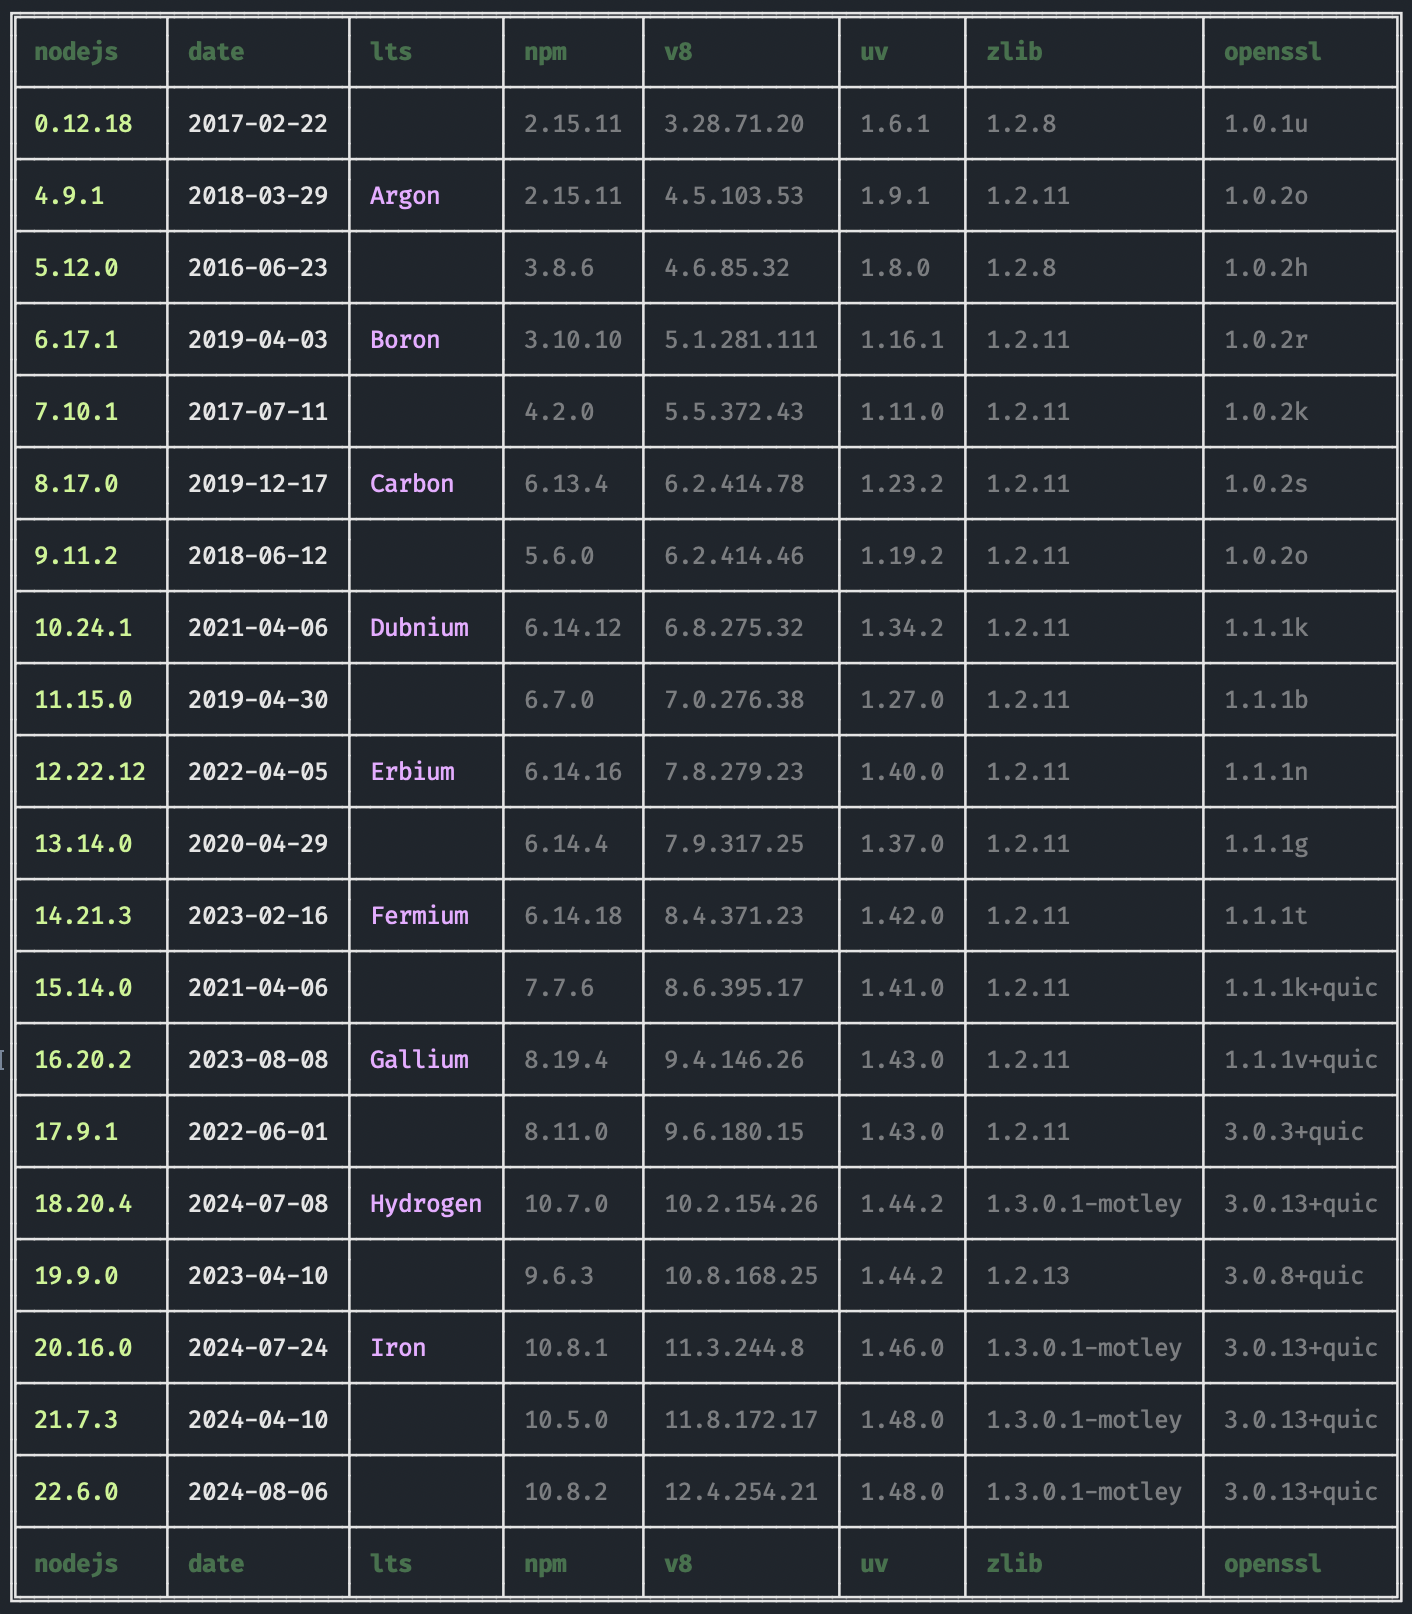
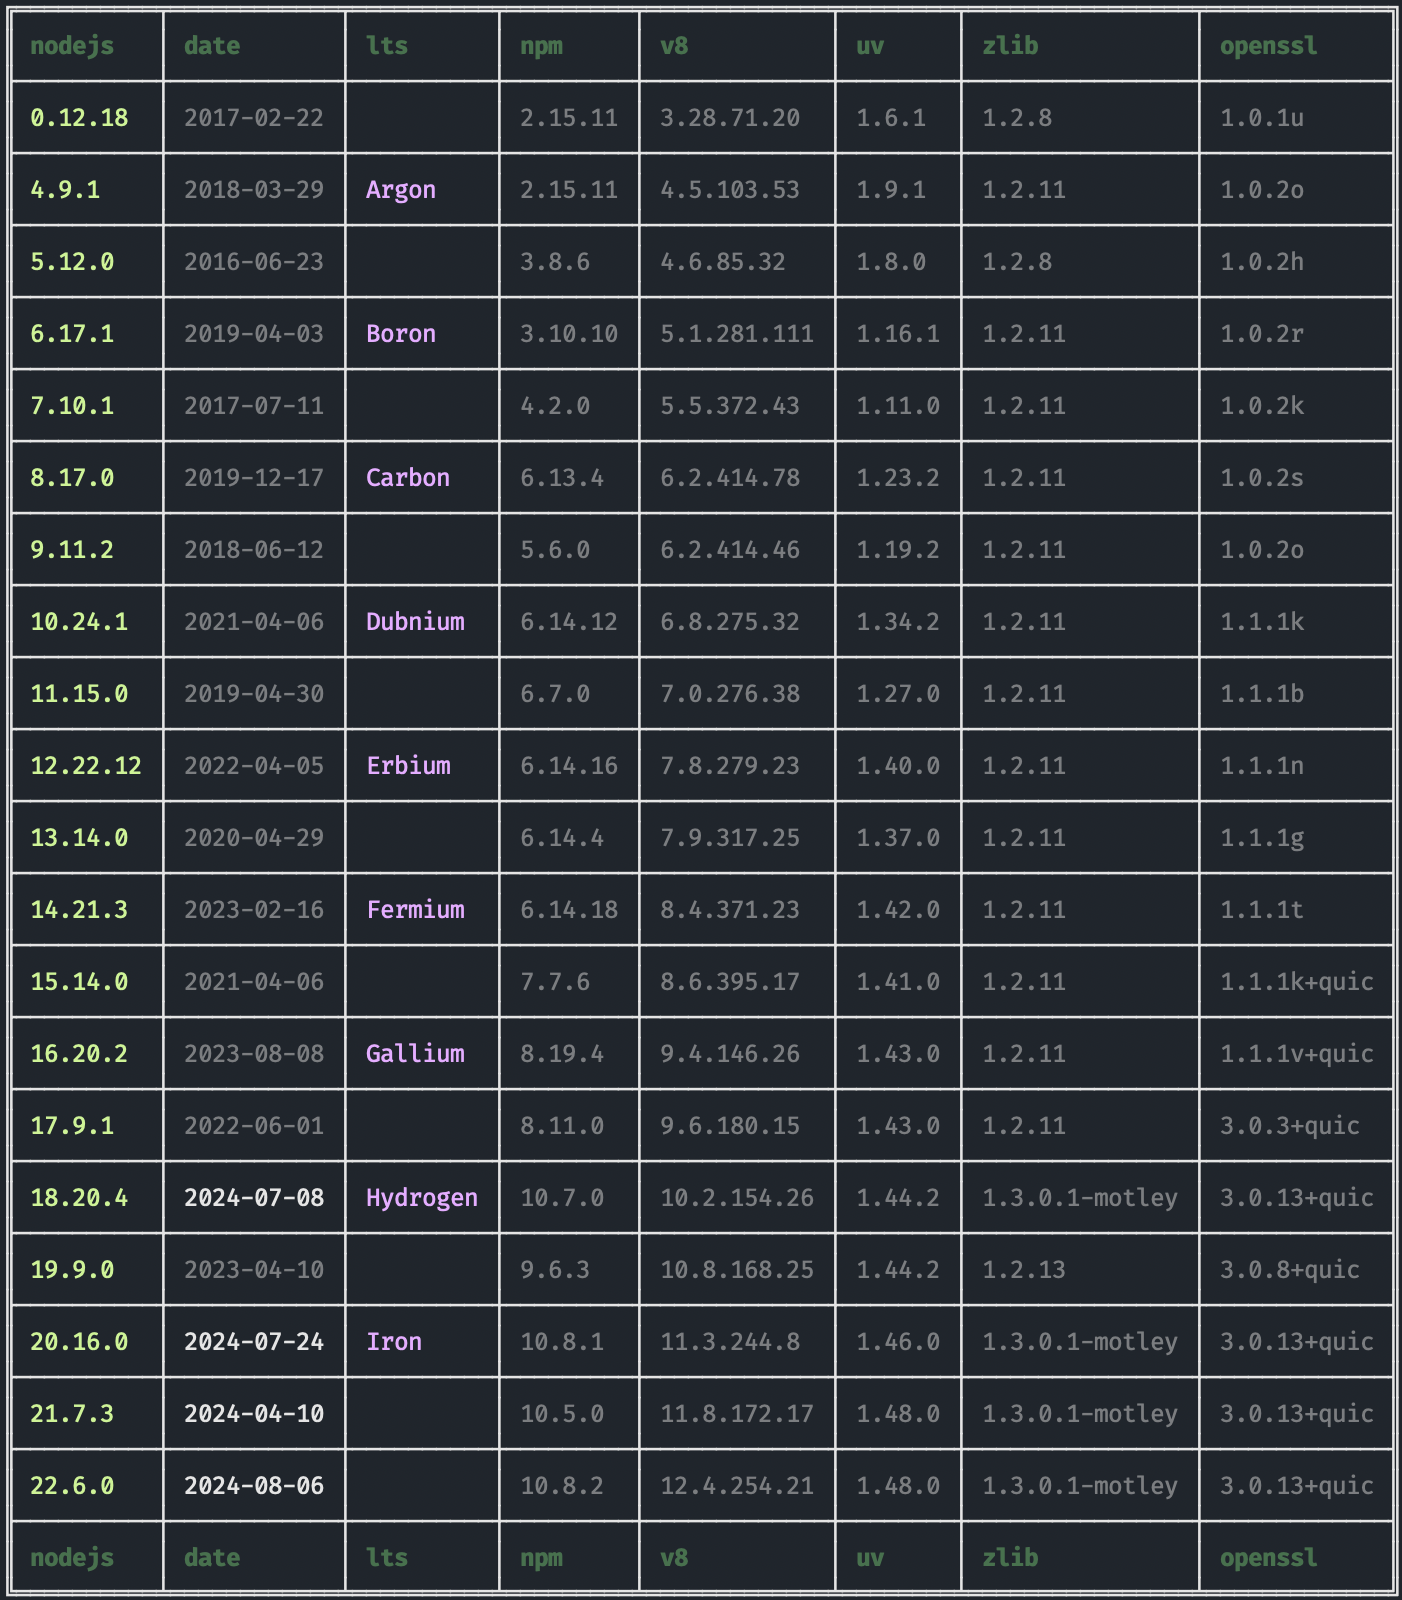
dim old years

Changed region(s): [[0.0, 0.0, 1.0, 1.0]]

diff --git a/app/cli.js b/app/cli.js
@@ -45,6 +45,8 @@ const versions = isArgAll
 if (isArgJson) {
     log(JSON.stringify(versions));
 } else {
+    const currentYear = new Date().getFullYear();
+
     const header = [
         'nodejs',
         'date',
@@ -62,7 +64,7 @@ if (isArgJson) {
             .reverse()
             .map(elem => [
                 elem.version ? green(elem.version) : '',
-                elem.date || '',
+                elem.date?.startsWith(currentYear) ? elem.date : dim(elem.date || ''),
                 elem.lts ? magenta(elem.lts) : '',
                 elem.npm ? dim(elem.npm) : '',
                 elem.v8 ? dim(elem.v8) : '',
